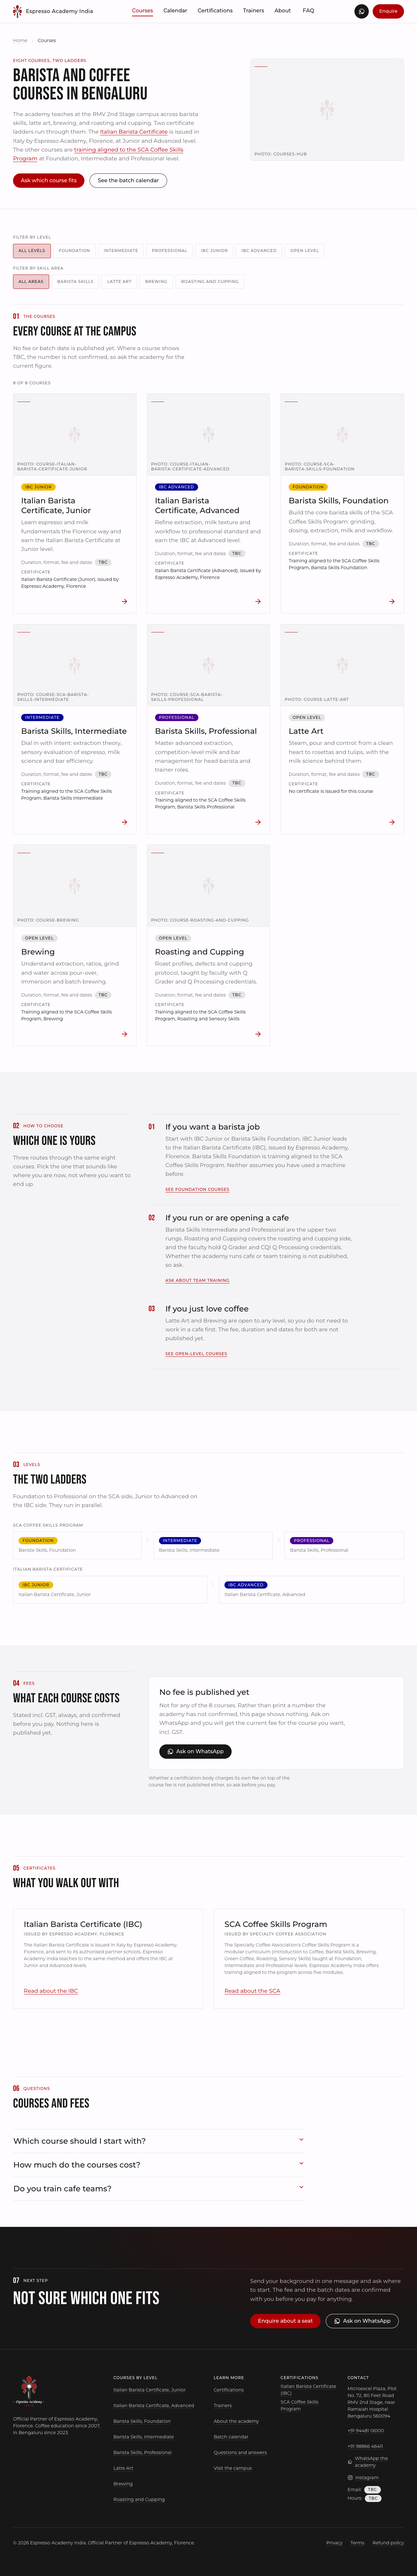
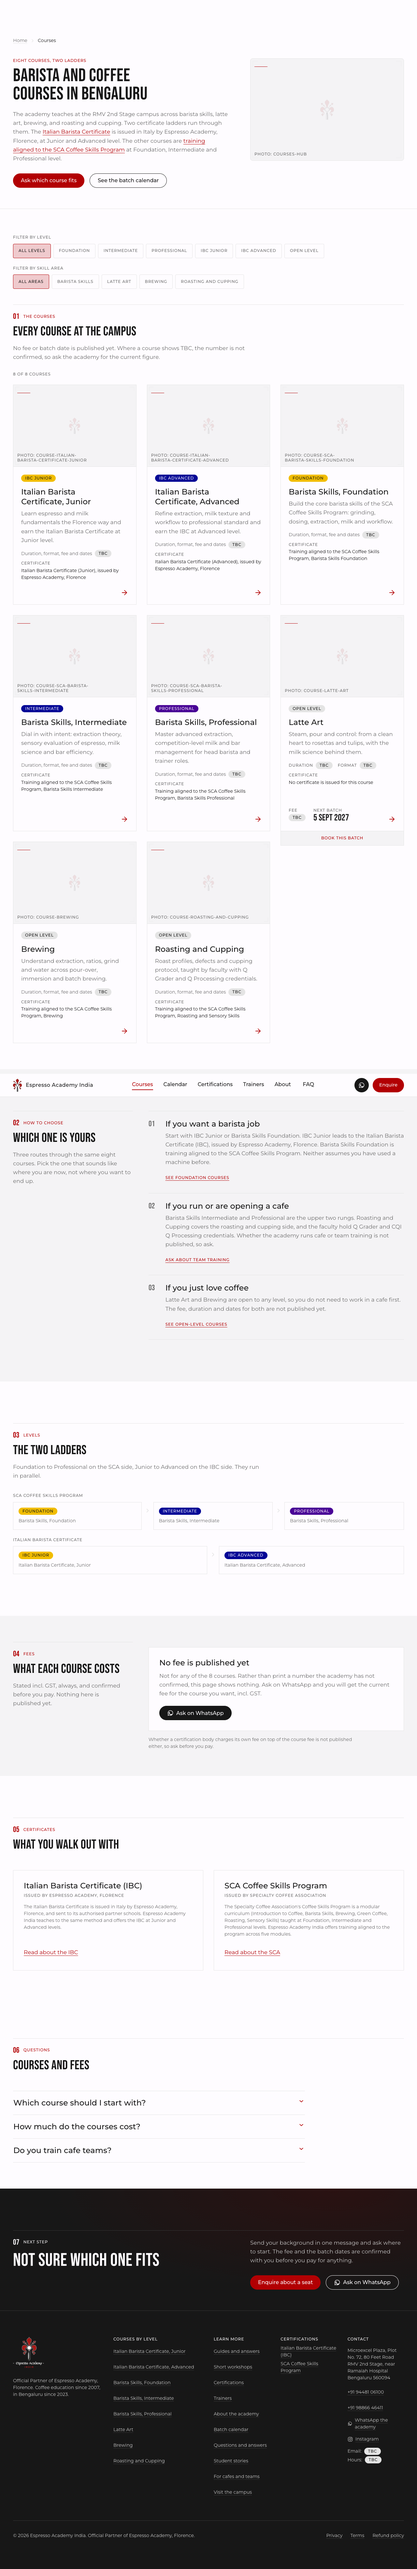
feat(nav): Contact joins the primary navigation
A coffee school is a place people come to, and the address, the hours and the map lived only in
the footer — the whole page away on a phone. Contact is the seventh item.

FAQ stays. The instruction was to move it out only if the nav passed seven items, and seven is
where this stops; it is also still in the footer's wider list, and every course page carries its
own FAQ block.

The constraint turned out not to be 390 but the desktop header. Measured with seven items: the
nav row goes from 564px to 660px and the header needs 1122px, so at the old 1080 breakpoint the
header was 42px wider than its viewport — the same defect this project shipped at 1024 and fixed
once already. `--breakpoint-nav` is 1128 now, that measurement rounded onto the 8px grid.

The cost is a 48px band, 1080 to 1127, that gets the mobile sheet instead of the nav row. That
band is nobody's device and the sheet carries every link plus more; a header wider than the
viewport is a defect at every width above it. Verified at 360, 390, 768, 1024, 1080, 1127, 1128,
1200 and 1280: no overflow anywhere, and the row switches on exactly where the token says.

Claude-Session: https://claude.ai/code/session_0171eozScSGDjW8zfz4PuUHw

diff --git a/src/app/globals.css b/src/app/globals.css
@@ -86,12 +86,18 @@
 }
 
 /* The width at which the full primary navigation fits beside the brand lockup and the two
-   actions. Measured, not guessed: brand 258 + nav 564 + actions 152 is 974px, and with the
-   32px gutters design.md fixes and a 16px gap either side of the nav it needs 1064px. At lg
-   (1024) the actions block ended 2px past the viewport, so the Enquire pill was clipped and
-   the right gutter was gone. A token rather than an inline arbitrary value, per rule 3. */
+   actions. Measured, not guessed. It was 1080: brand 258 + nav 564 + actions 152 is 974px, and
+   with the 32px gutters design.md fixes and a 16px gap either side of the nav that needed 1064px.
+   At lg (1024) the actions block ended 2px past the viewport, so the Enquire pill was clipped and
+   the right gutter was gone.
+
+   Adding Contact as a seventh item widened the nav from 564 to 660 and the header to a measured
+   1122px, which overflowed at both 1080 and 1120. 1128 is that measurement rounded up onto the
+   8px grid. The cost is a 48px band, 1080 to 1127, that now gets the mobile sheet instead of the
+   nav row; the alternative was a header wider than its viewport, which this project has already
+   shipped twice. A token rather than an inline arbitrary value, per rule 3. */
 @theme {
-  --breakpoint-nav: 1080px;
+  --breakpoint-nav: 1128px;
 }
 
 /* ---------------------------------------------------------------------------

diff --git a/src/lib/nav.ts b/src/lib/nav.ts
@@ -7,6 +7,19 @@ export interface NavItem {
   description?: string;
 }
 
+/**
+ * Seven items, and the seventh is Contact.
+ *
+ * A coffee school in Bengaluru is a place people come to. Somebody who wants the address, the
+ * hours or the map had to find Contact in the footer, which on a phone is the whole page away.
+ *
+ * FAQ moved out to make room. It is the one item here that answers a question the reader could
+ * also get from the page they are already on — every course page carries its own FAQ block, and
+ * /faq is linked from the home page's questions section and from the footer. Contact is not
+ * reachable any other way. The header measures 1064px with six items inside design.md's 32px
+ * gutters and the nav breakpoint is 1080, so seven items of this width still fit; the mobile
+ * sheet lists all of them plus the wider `learnMoreNav`.
+ */
 export const primaryNav: NavItem[] = [
   { href: "/courses", label: "Courses" },
   { href: "/calendar", label: "Calendar" },
@@ -14,6 +27,7 @@ export const primaryNav: NavItem[] = [
   { href: "/trainers", label: "Trainers" },
   { href: "/about", label: "About" },
   { href: "/faq", label: "FAQ" },
+  { href: "/contact", label: "Contact" },
 ];
 
 export const learnMoreNav: NavItem[] = [
